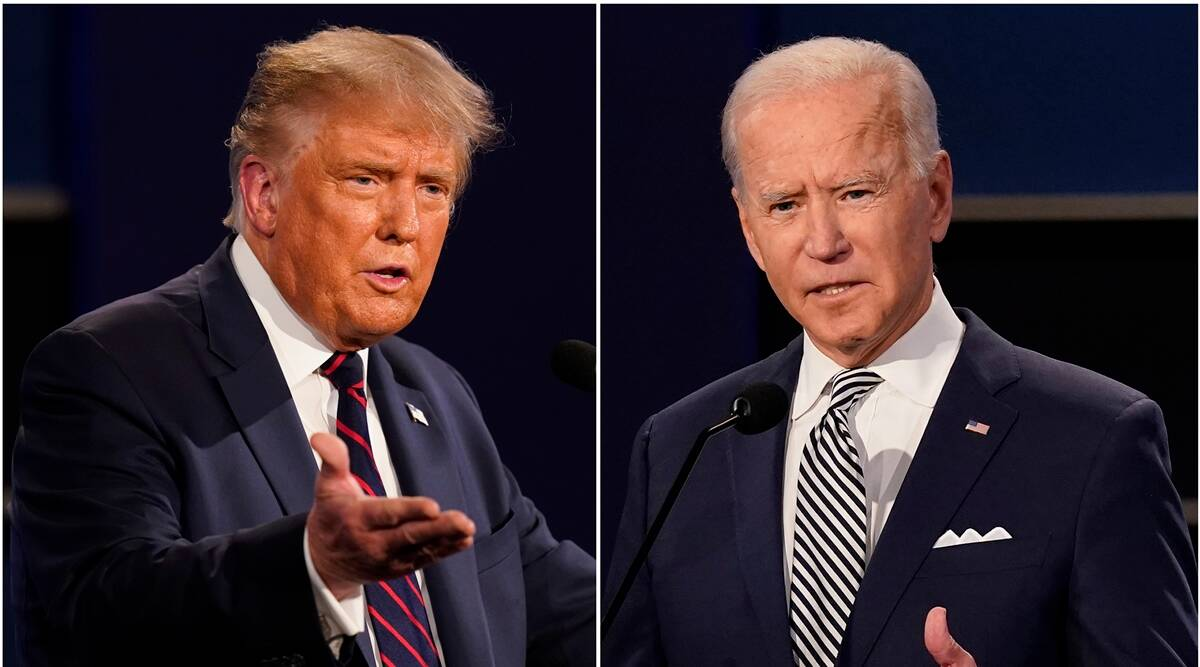
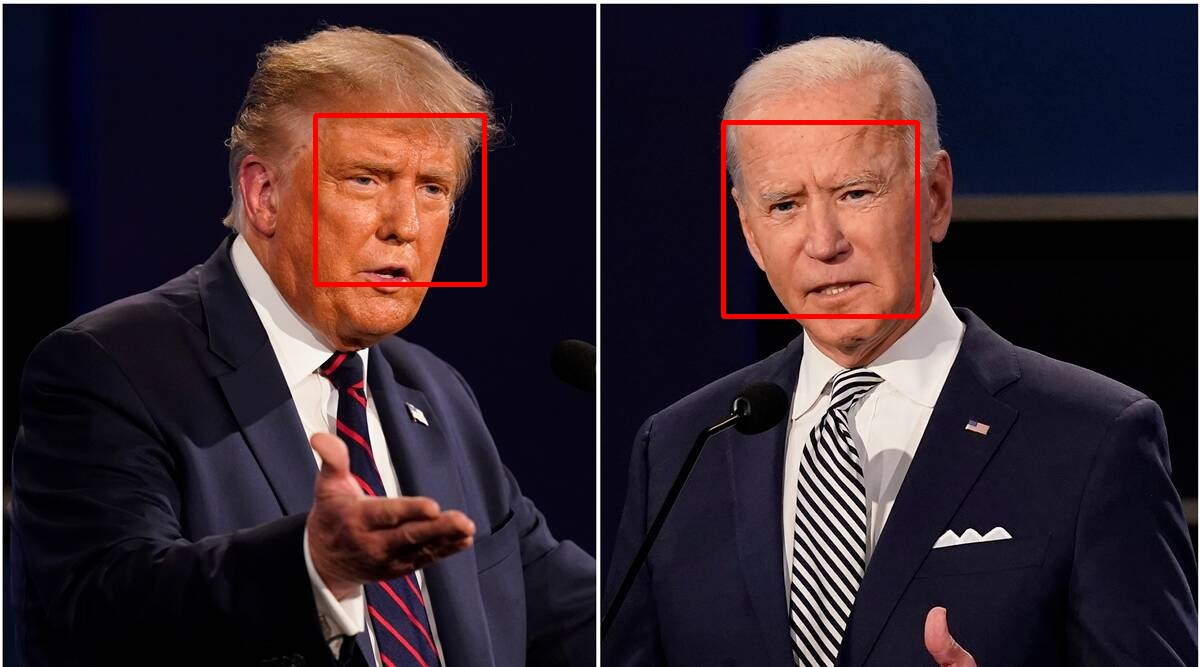
Testing Image dataset with Classifier

Changed region(s): [[0.5858, 0.1799, 0.7708, 0.4798], [0.2467, 0.1499, 0.4008, 0.4498], [0.4008, 0.1799, 0.4317, 0.4198]]

diff --git a/src/FacialDetection.java b/src/FacialDetection.java
@@ -1,9 +1,34 @@
 import org.opencv.core.Core;
+import org.opencv.core.Mat;
+import org.opencv.core.MatOfRect;
+import org.opencv.core.Point;
+import org.opencv.core.Rect;
+import org.opencv.core.Scalar;
+import org.opencv.imgcodecs.Imgcodecs;
+import org.opencv.imgproc.Imgproc;
+import org.opencv.objdetect.CascadeClassifier;
 
 public class FacialDetection {
 	public static void main(String[] args) {
 		System.loadLibrary(Core.NATIVE_LIBRARY_NAME);
-		System.out.println("cchec");
+//		System.out.println("cchec");
+		String imgFile = "images/test.jpg";
+		Mat src = Imgcodecs.imread(imgFile);
 		
+		String xmlFile = "xml/lbpcascade_frontalface.xml";
+		CascadeClassifier cc = new CascadeClassifier(xmlFile);
+		
+		MatOfRect faceDetection = new MatOfRect();
+		
+		//using classifier to reading src file
+		cc.detectMultiScale(src, faceDetection);
+		System.out.println(String.format("Face Found: %d", faceDetection.toArray().length));
+	
+		for(Rect rect: faceDetection.toArray()) {
+			Imgproc.rectangle(src, new Point(rect.x, rect.y), new Point(rect.x + rect.width, rect.y + rect.height), new Scalar(0,0,255),3);
+		}
+	
+		Imgcodecs.imwrite("images/test-out.jpg", src);
+		System.out.println("Image Detected Successfully!");
 	}
 }
